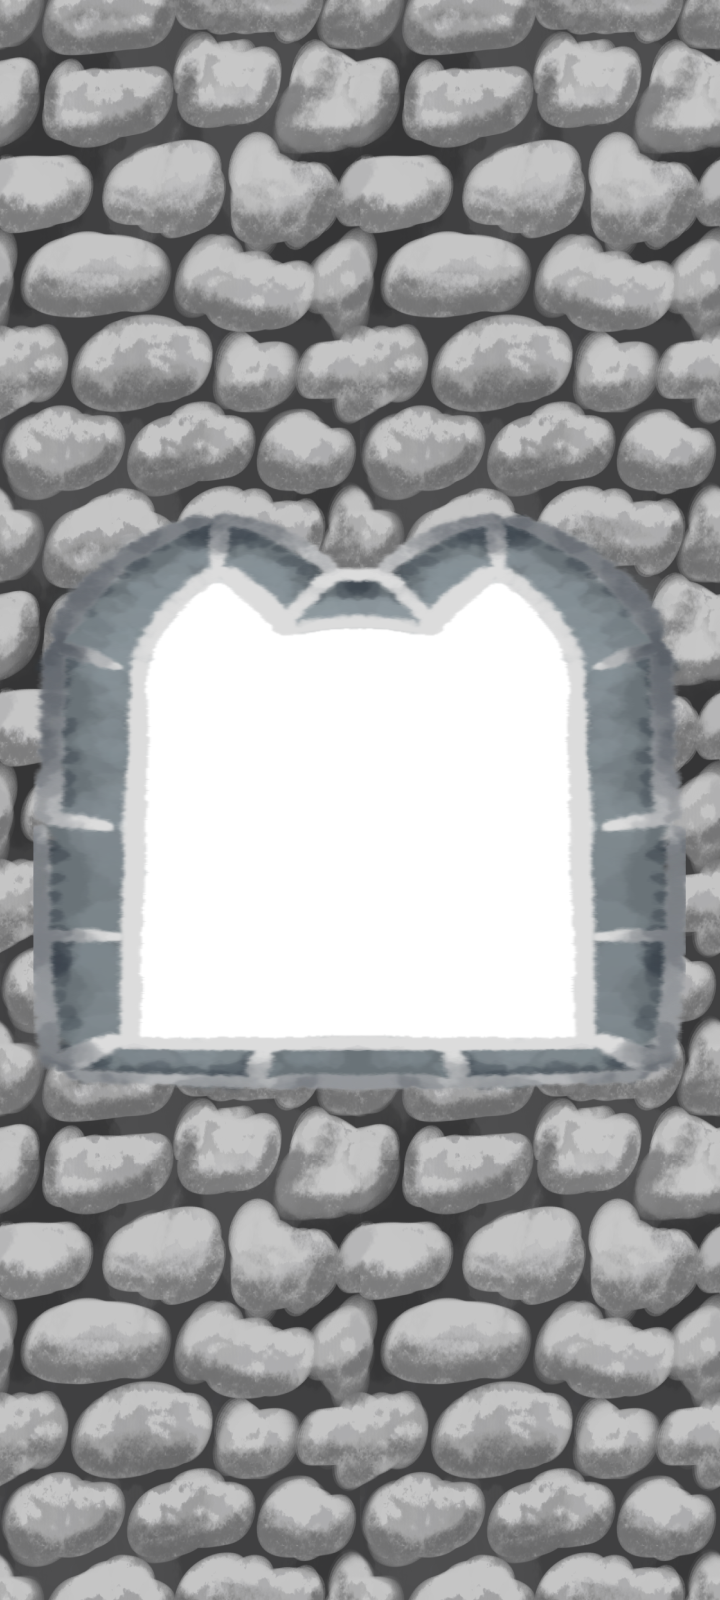
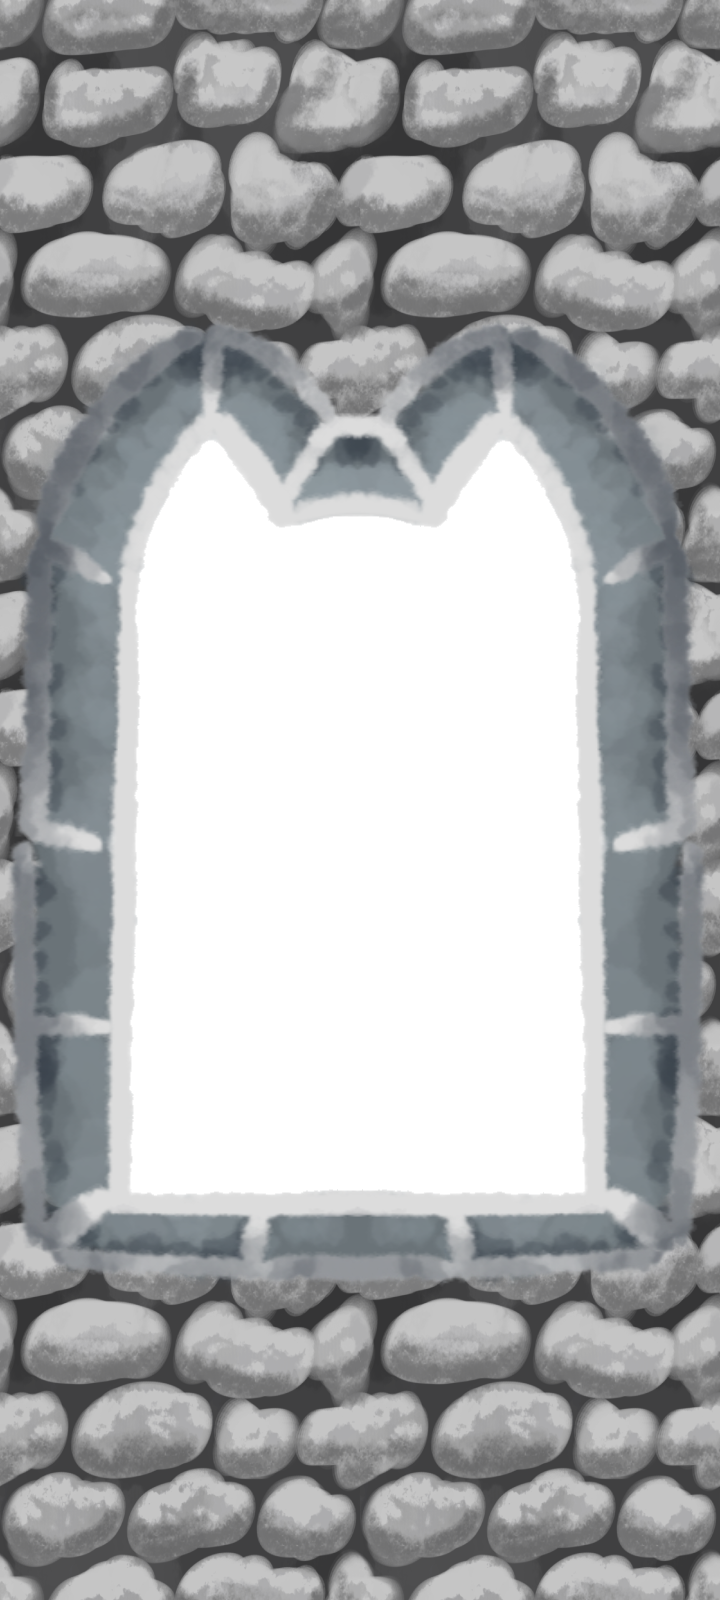
Changed window in mobile view (#44)

Changed region(s): [[0.0, 0.1875, 0.9778, 0.8125]]

diff --git a/src/components/RoomSign.tsx b/src/components/RoomSign.tsx
@@ -1,0 +1,66 @@
+import sign from "../assets/sign.png";
+import type { DeviceType } from "../hooks/useResponsiveLayout";
+
+interface RoomSignProps {
+  roomId: string;
+  deviceType: DeviceType;
+  onClick?: () => void;
+}
+
+const roomNames: Record<string, string> = {
+  '1': 'Veiklos',
+  '2': 'Rėmėjai',
+  '3': 'Komanda',
+  '4': 'MIDI tinklai',
+  '5': 'RO tinklai',
+  '6': 'Bendradarbiavimas',
+};
+
+export default function RoomSign({ roomId, deviceType, onClick }: RoomSignProps) {
+  const name = roomNames[roomId] || 'Kambarys';
+
+  const isMobile = deviceType === 'mobile';
+
+  return (
+    <div
+      onClick={onClick}
+      style={{
+        position: 'absolute',
+        bottom: isMobile ? '8%' : '0%',
+        left: '50%',
+        transform: 'translateX(-50%)',
+        width: isMobile ? '80%' : '40%',
+        maxWidth: '400px',
+        zIndex: 100,
+        cursor: 'pointer',
+      }}
+    >
+        <img
+            src={sign}
+            alt=""
+            style={{
+                width: '100%',
+                height: isMobile ? '60px' : '30px',
+                objectFit: 'fill',
+                display: 'block',
+            }}
+        />
+      <span
+        style={{
+          position: 'absolute',
+          top: '50%',
+          left: '50%',
+          transform: 'translate(-50%, -50%)',
+          color: '#f5f5dc',
+          fontSize: isMobile ? '1rem' : '0.875rem',
+          fontWeight: 'bold',
+          textAlign: 'center',
+          textShadow: '1px 1px 2px rgba(0,0,0,0.8)',
+          whiteSpace: 'nowrap',
+        }}
+      >
+        {name}
+      </span>
+    </div>
+  );
+}

diff --git a/src/components/Room.tsx b/src/components/Room.tsx
@@ -4,6 +4,7 @@ import Cat from './Cat';
 import { useState } from 'react';
 import { useNavigate } from 'react-router-dom';
 import type { DeviceType } from '../hooks/useResponsiveLayout';
+import RoomSign from './RoomSign';
 
 interface RoomProps {
   children: React.ReactNode;
@@ -174,6 +175,12 @@ export default function Room({
           contentInset={contentInset}
           message={roomMessages[room?.id ?? ''] || 'Miau!'}
           onRoomClick={navigateToRoom}
+        />
+
+        <RoomSign 
+          roomId={room?.id ?? '1'} 
+          deviceType={deviceType} 
+          onClick={navigateToRoom}
         />
       </div>
     </div>

diff --git a/src/components/Curtains.tsx b/src/components/Curtains.tsx
@@ -37,14 +37,14 @@ export default function Curtains({
 
   const curtainStyle = deviceType === 'mobile' 
     ? { 
-        width: '100%', 
-        height: '35%',
-        transform: 'translateY(5%)',
+        width: '90%', 
+        height: '55%',
+        transform: 'translateY(5%) scaleX(1.4)',
       }
     : { 
-        width: '95%', 
+        width: '90%', 
         height: '85%',
-        transform: 'translateY(5%)',
+        transform: 'translateY(2%) scaleX(1.35)',
       };
 
   const imageStyle: React.CSSProperties = {

diff --git a/src/components/Cat.tsx b/src/components/Cat.tsx
@@ -56,7 +56,7 @@ export default function Cat({
   };
 
   const catSize = deviceType === 'mobile' ? '6rem' : '4rem';
-  const catMarginBottom = deviceType === 'mobile' ? '16vh' : '0';
+  const catMarginBottom = deviceType === 'mobile' ? '10vh' : '0';
 
   return (
     <div
